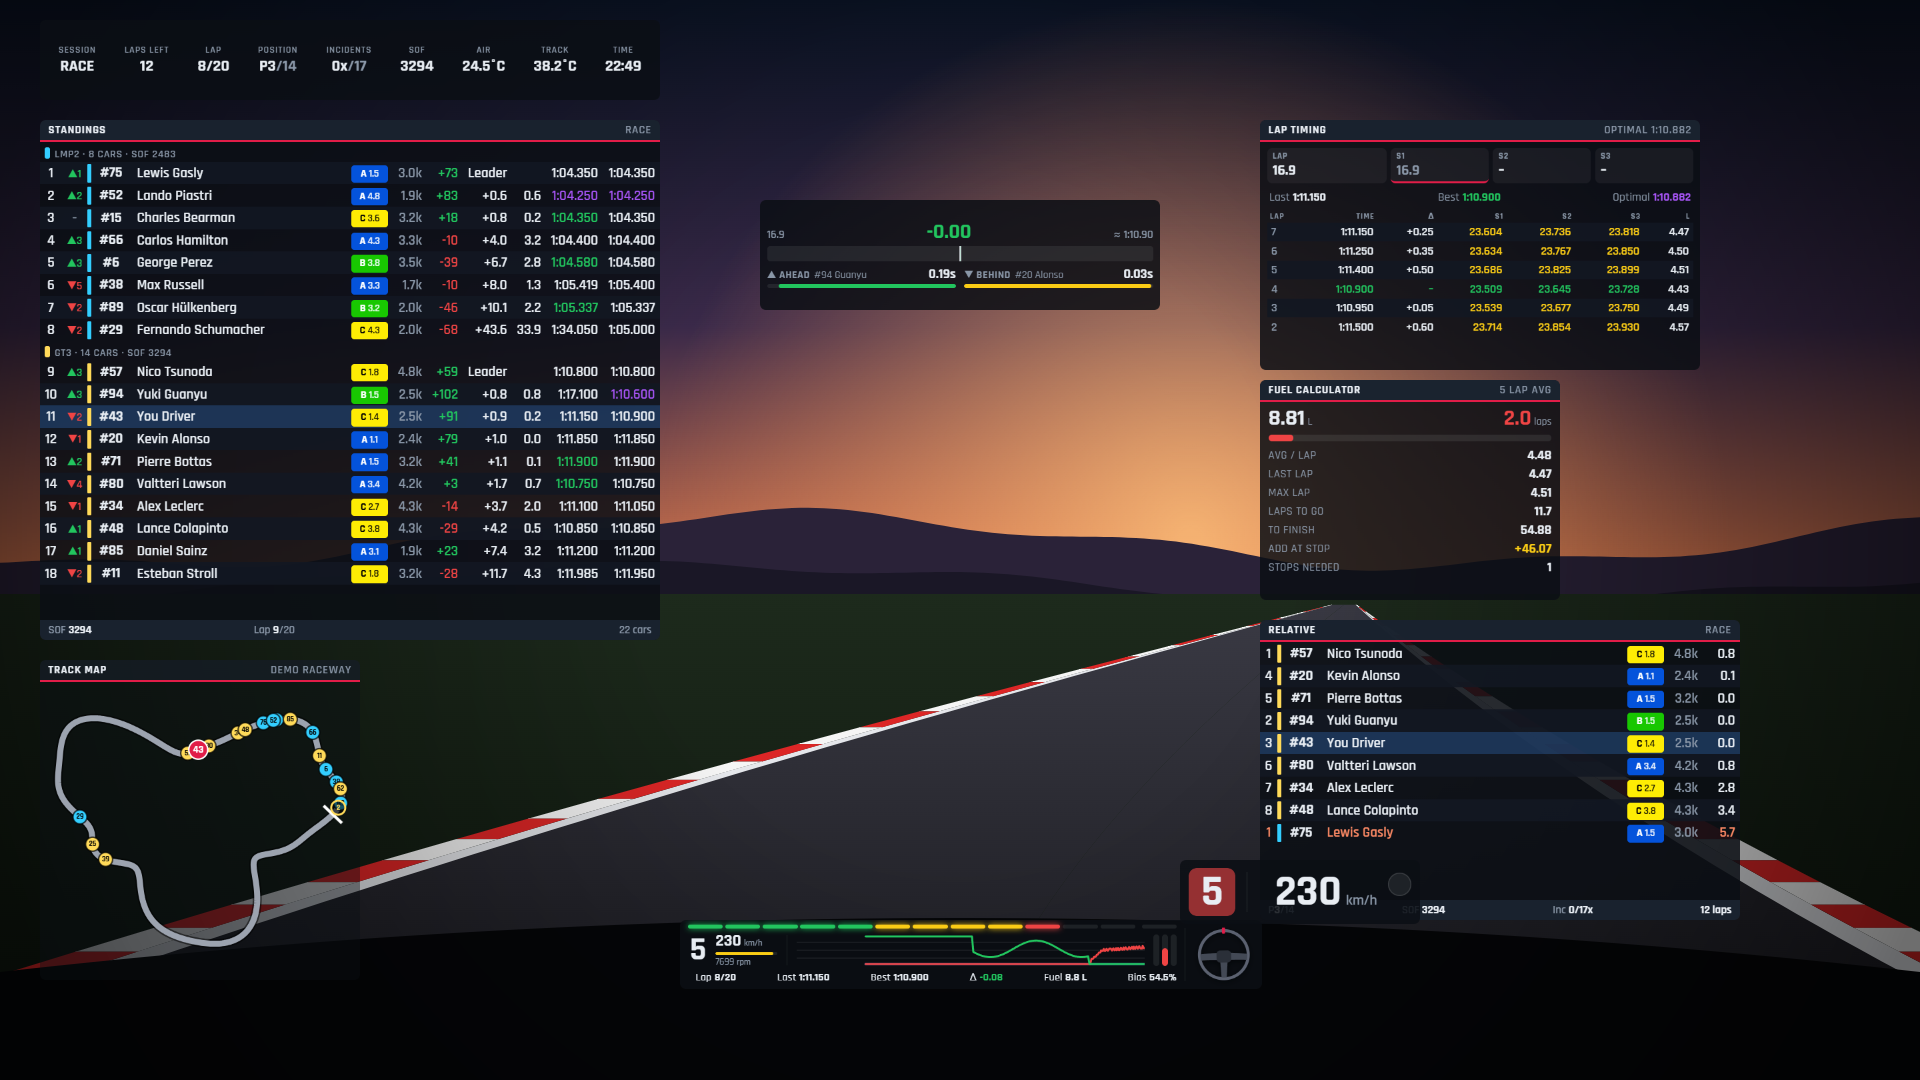
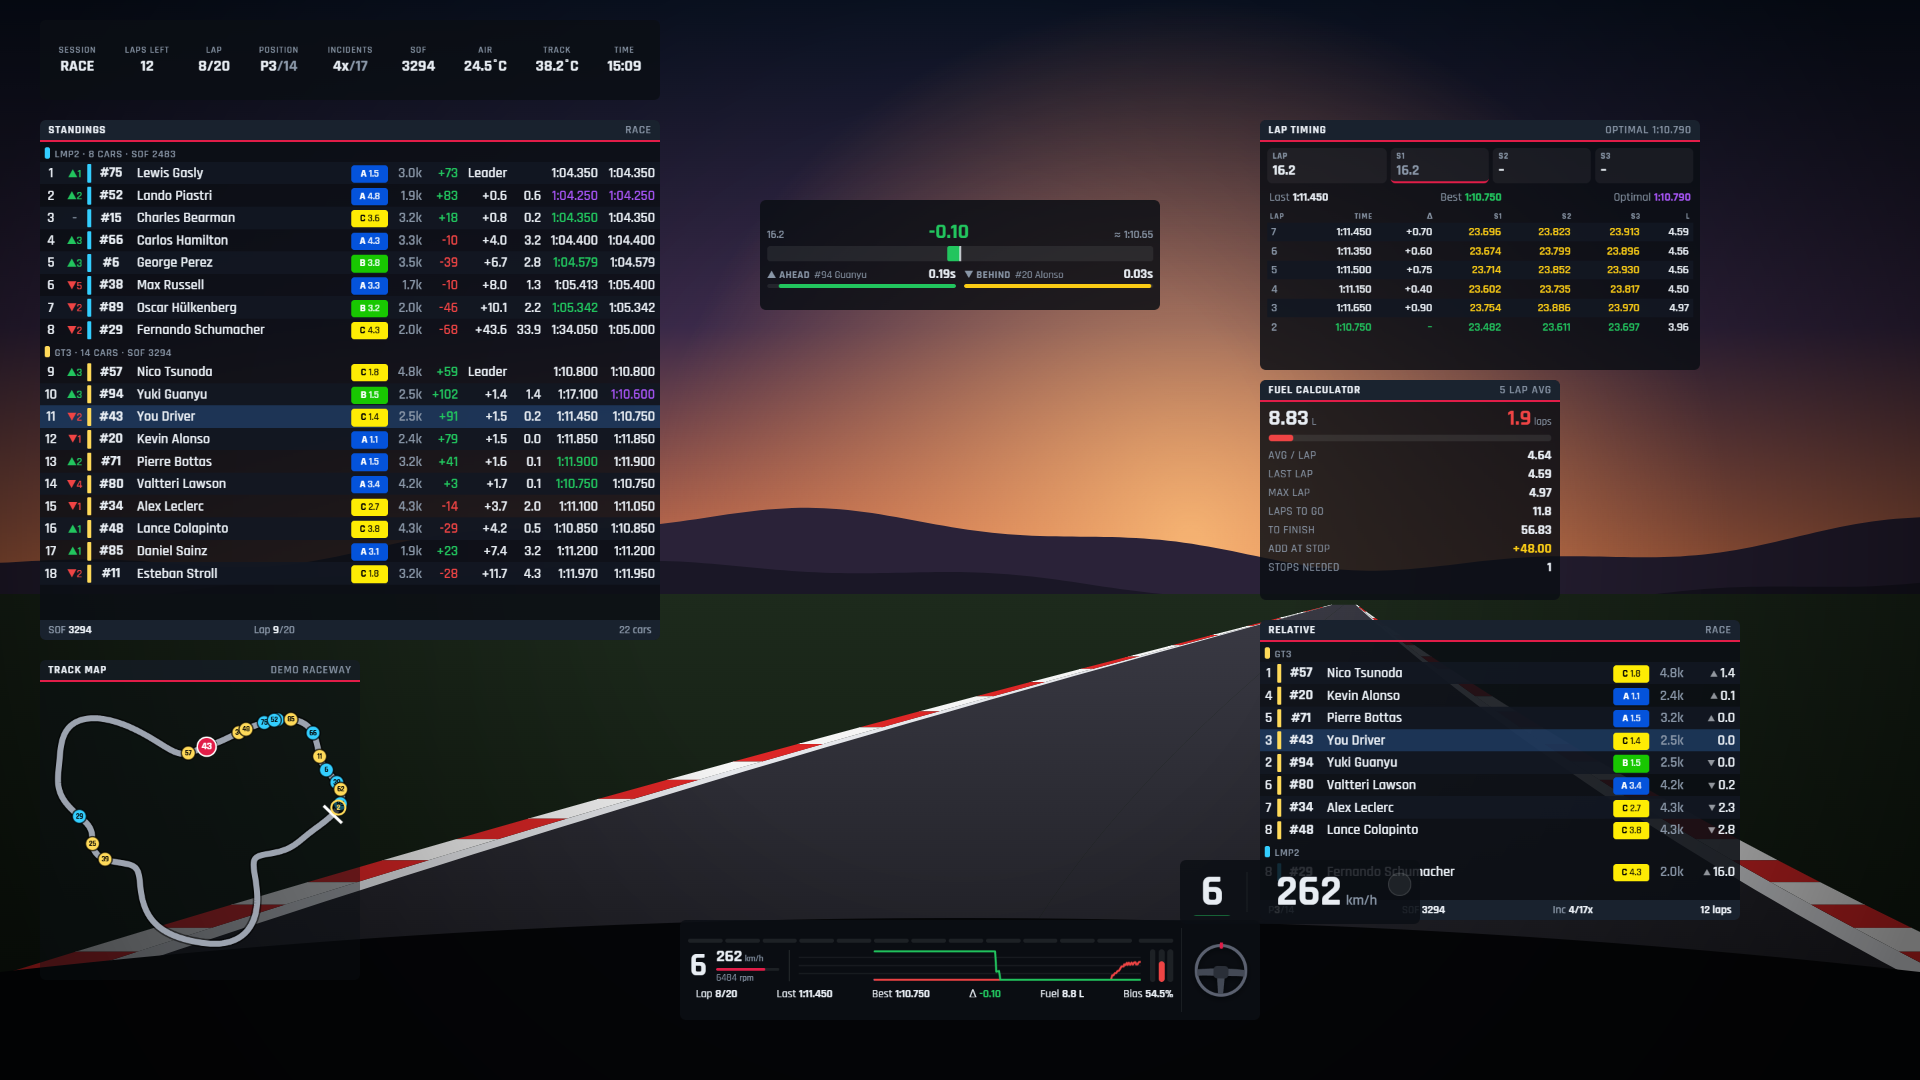
Regenerate Relative/hero/settings screenshots with class grouping
Claude-Session: https://claude.ai/code/session_01DGNazZwthjQmDrJZJifFFT

diff --git a/README.md b/README.md
@@ -164,7 +164,7 @@ groups cars by class (your class first), with ▲ / ▼ showing whether each car
 
 | Relative | Standings |
 |---|---|
-| ![Relative with Pro / Am tags](docs/screenshots/class-splits-relative.png) | ![Standings grouped by sub-class](docs/screenshots/class-splits-standings.png) |
+| ![Relative grouped by Pro / Am class](docs/screenshots/class-splits-relative.png) | ![Standings grouped by sub-class](docs/screenshots/class-splits-standings.png) |
 
 ![Class splits settings](docs/screenshots/class-splits-settings.png)
 
